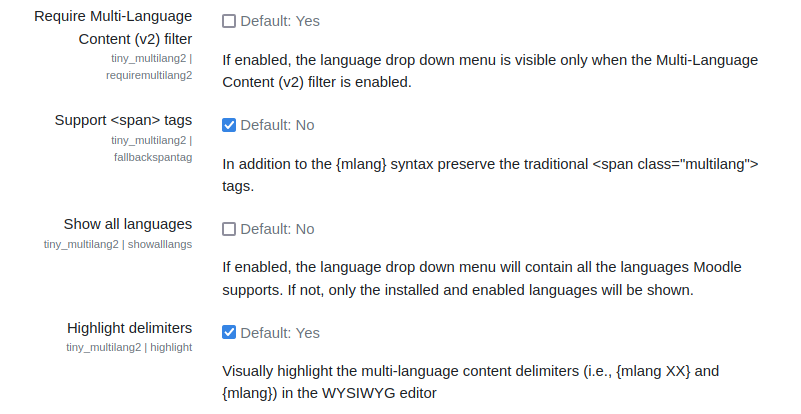
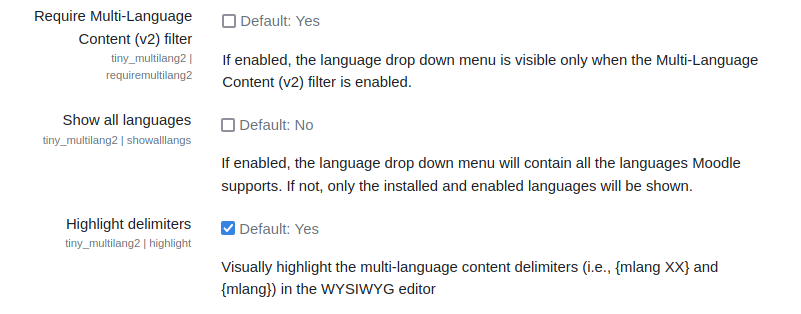
Remove the setting: fallbackspantag - It was not observed correctly (markup in the editor is still   applied even if the setting was off). - Correcting the first point would have leed to no styling which   is somewhat awkward when there are <span class="multilang">   tags contained in the text but n
Therefore the <span> tag is now the default behaviour when there
is no multilang filter 2 installed.

diff --git a/amd/build/ui.min.js b/amd/build/ui.min.js
@@ -9,6 +9,6 @@ define("tiny_multilang2/ui",["exports","./options"],(function(_exports,_options2
    * @copyright   2015 onwards Iñaki Arenaza & Mondragon Unibertsitatea
    * @license     http://www.gnu.org/copyleft/gpl.html GNU GPL v3 or later
    */
-const spanClass="multilang-begin mceNonEditable",spanFixedAttrs='<span contenteditable="false" class="'+spanClass+'" data-mce-contenteditable="false"',spanMultilangBegin=spanFixedAttrs+' lang="%lang" xml:lang="%lang">{mlang %lang}</span>',spanMultilangEnd=spanFixedAttrs.replace("begin","end")+">{mlang}</span>",isNull=a=>null==a;let _isSubmit=!1;const _options={},addVisualStyling=function(ed){let content=ed.getContent();if(-1!==content.indexOf(spanClass))return content;if(content=content.replace(new RegExp("{\\s*mlang\\s+([^}]+?)\\s*}","ig"),(function(match,p1){return spanMultilangBegin.replace(new RegExp("%lang","g"),p1)})),content=content.replace(new RegExp("{\\s*mlang\\s*}","ig"),spanMultilangEnd),(0,_options2.mlangFilterExists)(ed)&&!(0,_options2.isFallbackSpanTag)(ed))return content;const doc=(new DOMParser).parseFromString(content,"text/html");if(0===doc.children.length)return content;const nodes=doc.querySelectorAll("span.multilang");if(0===nodes.length)return content;for(const span of nodes){const newSpan=spanMultilangBegin.replace(new RegExp("%lang","g"),span.getAttribute("lang")).replace("mceNonEditable","mceNonEditable fallback")+span.innerHTML+spanMultilangEnd.replace("mceNonEditable","mceNonEditable fallback");span.insertAdjacentHTML("afterend",newSpan),span.remove()}return doc.getElementsByTagName("body")[0].innerHTML},removeVisualStyling=function(ed){["begin","end"].forEach((function(t){for(const span of ed.dom.select("span.multilang-"+t))if("begin"===t&&span.classList.contains("fallback")){let innerHTML="",end=span,toRemove=[];for(;end&&(end=end.nextSibling,!isNull(end));){if(!isNull(end.classList)&&end.classList.contains("multilang-end")){toRemove.push(end);break}3===end.nodeType?innerHTML+=end.nodeValue:1===end.nodeType&&(innerHTML+=end.outerHTML),toRemove.push(end)}if(!isNull(end)){const lang=span.innerHTML.match(new RegExp("{\\s*mlang\\s+([^}]+?)\\s*}","i")),rtlLanguages=(0,_options2.getRTLLanguages)();if(lang){const langCode=lang[1],dir=rtlLanguages.includes(langCode)?"rtl":"ltr",newHTML='<span class="multilang" lang="'+lang[1]+'" dir="'+dir+'">'+innerHTML+"</span>";for(end of(ed.dom.setOuterHTML(span,newHTML),toRemove))ed.dom.remove(end)}}}else ed.dom.setOuterHTML(span,span.innerHTML.toLowerCase())}))},getHighlightNodeFromSelect=function(ed,search){let span;return ed.dom.getParents(ed.selection.getStart(),(elm=>{if(!isNull(elm.classList)){const pair="begin"===search?"end":"begin";if(elm.classList.contains("multilang-"+pair)){span=elm;do{span="begin"===search?span.previousSibling:span.nextSibling}while(!isNull(span)&&(isNull(span.classList)||!span.classList.contains("multilang-"+search)))}else elm.classList.contains("multilang-"+search)&&(span=elm)}})),span},hideContentToolbar=function(el){for(;!isNull(el);){if(el.nodeType===Node.ELEMENT_NODE&&!isNull(el.getAttribute("class"))&&-1!=el.getAttribute("class").indexOf("tox-pop-"))return void(el.style.display="none");el=el.parentNode}};_exports.onInit=function(ed,options){Object.keys(options).forEach((function(key){_options[key]=options[key]})),ed.setContent(addVisualStyling(ed)),(0,_options2.isContentToHighlight)(ed)&&ed.dom.addStyle((0,_options2.getHighlightCss)(ed))};_exports.onBeforeGetContent=function(ed,content){if(!isNull(content.source_view)&&!0===content.source_view){var onClose=function(ed){ed.off("close",onClose),ed.setContent(addVisualStyling(ed))};ed.on("CloseWindow",(()=>{onClose(ed)})),removeVisualStyling(ed)}};_exports.onFocus=function(ed){_isSubmit&&(ed.setContent(addVisualStyling(ed),{no_events:!0}),_isSubmit=!1)};_exports.onSubmit=function(ed){removeVisualStyling(ed),_isSubmit=!0};_exports.onDelete=function(ed,event){if(event.isComposing||isNull(event.clientX)&&46!==event.keyCode&&8!==event.keyCode)return;if(!isNull(event.clientX)&&(event.target.nodeType!==Node.ELEMENT_NODE||"path"!==event.target.nodeName&&"svg"!==event.target.nodeName))return;const begin=getHighlightNodeFromSelect(ed,"begin"),end=getHighlightNodeFromSelect(ed,"end");isNull(begin)||isNull(end)||(event.preventDefault(),ed.dom.remove(begin),ed.dom.remove(end),isNull(event.clientX)||hideContentToolbar(event.target))};_exports.applyLanguage=function(ed,iso,event){if(isNull(iso))return;if("remove"===iso){return void ed.contentDocument.body.querySelectorAll(".multilang-begin, .multilang-end").forEach((element=>{ed.dom.remove(element)}))}const regexLang=/%lang/g;let text=ed.selection.getContent();if(""===text.toString().replace(/^\s+/,"").replace(/\s+$/,"")){if(!isNull(event))return void hideContentToolbar(event.target);let newtext=spanMultilangBegin.replace(regexLang,iso)+" "+spanMultilangEnd;return(0,_options2.mlangFilterExists)(ed)||(newtext=newtext.replaceAll("mceNonEditable","mceNonEditable fallback")),void ed.insertContent(newtext)}isNull(event)||hideContentToolbar(event.target);const span=getHighlightNodeFromSelect(ed,"begin");if(!isNull(span)){let replacement=spanMultilangBegin.replace(regexLang,iso);return span.classList.contains("fallback")&&(replacement=replacement.replace("mceNonEditable","mceNonEditable fallback")),void ed.dom.setOuterHTML(span,replacement)}if(-1!==text.indexOf("multilang-begin")||-1!==text.indexOf("multilang-end"))return void ed.notificationManager.open({text:_options.langInSelectionErrMsg,type:"error"});const block=function(text){let result={el:null,cnt:0};const body=(new DOMParser).parseFromString(text,"text/html").body;if(body.firstChild.nodeType!==Node.ELEMENT_NODE)return result;const blockTags=["address","article","aside","blockquote","dd","div","dl","dt","figcaption","h1","h2","h3","h4","h5","h6","li","ol","p","pre","section","tfoot","ul"];for(let i=0;i<body.children.length;i++)body.children[i].nodeType===Node.ELEMENT_NODE&&-1!=blockTags.indexOf(body.children[i].tagName.toString().toLowerCase())&&(result.cnt+=1,isNull(result.el)&&(result.el=body.children[i]));return result}(text);if(!isNull(block.el)){if(1===block.cnt){let newtext=spanMultilangBegin.replace(regexLang,iso)+block.el.innerHTML+spanMultilangEnd;return(0,_options2.mlangFilterExists)(ed)||(newtext=newtext.replaceAll("mceNonEditable","mceNonEditable fallback")),block.el.innerHTML=newtext,void ed.selection.setContent(block.el.outerHTML)}if(!(0,_options2.mlangFilterExists)(ed))return void ed.notificationManager.open({text:_options.multipleBlocksErrMsg,type:"error"})}let newtext=spanMultilangBegin.replace(regexLang,iso)+text+spanMultilangEnd;(0,_options2.mlangFilterExists)(ed)||(newtext=newtext.replaceAll("mceNonEditable","mceNonEditable fallback")),ed.selection.setContent(newtext)}}));
+const spanClass="multilang-begin mceNonEditable",spanFixedAttrs='<span contenteditable="false" class="'+spanClass+'" data-mce-contenteditable="false"',spanMultilangBegin=spanFixedAttrs+' lang="%lang" xml:lang="%lang">{mlang %lang}</span>',spanMultilangEnd=spanFixedAttrs.replace("begin","end")+">{mlang}</span>",isNull=a=>null==a;let _isSubmit=!1;const _options={},addVisualStyling=function(ed){let content=ed.getContent();if(-1!==content.indexOf(spanClass))return content;content=content.replace(new RegExp("{\\s*mlang\\s+([^}]+?)\\s*}","ig"),(function(match,p1){return spanMultilangBegin.replace(new RegExp("%lang","g"),p1)})),content=content.replace(new RegExp("{\\s*mlang\\s*}","ig"),spanMultilangEnd);const doc=(new DOMParser).parseFromString(content,"text/html");if(0===doc.children.length)return content;const nodes=doc.querySelectorAll("span.multilang");if(0===nodes.length)return content;for(const span of nodes){const newSpan=spanMultilangBegin.replace(new RegExp("%lang","g"),span.getAttribute("lang")).replace("mceNonEditable","mceNonEditable fallback")+span.innerHTML+spanMultilangEnd.replace("mceNonEditable","mceNonEditable fallback");span.insertAdjacentHTML("afterend",newSpan),span.remove()}return doc.getElementsByTagName("body")[0].innerHTML},removeVisualStyling=function(ed){["begin","end"].forEach((function(t){for(const span of ed.dom.select("span.multilang-"+t))if("begin"===t&&span.classList.contains("fallback")){let innerHTML="",end=span,toRemove=[];for(;end&&(end=end.nextSibling,!isNull(end));){if(!isNull(end.classList)&&end.classList.contains("multilang-end")){toRemove.push(end);break}3===end.nodeType?innerHTML+=end.nodeValue:1===end.nodeType&&(innerHTML+=end.outerHTML),toRemove.push(end)}if(!isNull(end)){const lang=span.innerHTML.match(new RegExp("{\\s*mlang\\s+([^}]+?)\\s*}","i")),rtlLanguages=(0,_options2.getRTLLanguages)();if(lang){const langCode=lang[1],dir=rtlLanguages.includes(langCode)?"rtl":"ltr",newHTML='<span class="multilang" lang="'+lang[1]+'" dir="'+dir+'">'+innerHTML+"</span>";for(end of(ed.dom.setOuterHTML(span,newHTML),toRemove))ed.dom.remove(end)}}}else ed.dom.setOuterHTML(span,span.innerHTML.toLowerCase())}))},getHighlightNodeFromSelect=function(ed,search){let span;return ed.dom.getParents(ed.selection.getStart(),(elm=>{if(!isNull(elm.classList)){const pair="begin"===search?"end":"begin";if(elm.classList.contains("multilang-"+pair)){span=elm;do{span="begin"===search?span.previousSibling:span.nextSibling}while(!isNull(span)&&(isNull(span.classList)||!span.classList.contains("multilang-"+search)))}else elm.classList.contains("multilang-"+search)&&(span=elm)}})),span},hideContentToolbar=function(el){for(;!isNull(el);){if(el.nodeType===Node.ELEMENT_NODE&&!isNull(el.getAttribute("class"))&&-1!=el.getAttribute("class").indexOf("tox-pop-"))return void(el.style.display="none");el=el.parentNode}};_exports.onInit=function(ed,options){Object.keys(options).forEach((function(key){_options[key]=options[key]})),ed.setContent(addVisualStyling(ed)),(0,_options2.isContentToHighlight)(ed)&&ed.dom.addStyle((0,_options2.getHighlightCss)(ed))};_exports.onBeforeGetContent=function(ed,content){if(!isNull(content.source_view)&&!0===content.source_view){var onClose=function(ed){ed.off("close",onClose),ed.setContent(addVisualStyling(ed))};ed.on("CloseWindow",(()=>{onClose(ed)})),removeVisualStyling(ed)}};_exports.onFocus=function(ed){_isSubmit&&(ed.setContent(addVisualStyling(ed),{no_events:!0}),_isSubmit=!1)};_exports.onSubmit=function(ed){removeVisualStyling(ed),_isSubmit=!0};_exports.onDelete=function(ed,event){if(event.isComposing||isNull(event.clientX)&&46!==event.keyCode&&8!==event.keyCode)return;if(!isNull(event.clientX)&&(event.target.nodeType!==Node.ELEMENT_NODE||"path"!==event.target.nodeName&&"svg"!==event.target.nodeName))return;const begin=getHighlightNodeFromSelect(ed,"begin"),end=getHighlightNodeFromSelect(ed,"end");isNull(begin)||isNull(end)||(event.preventDefault(),ed.dom.remove(begin),ed.dom.remove(end),isNull(event.clientX)||hideContentToolbar(event.target))};_exports.applyLanguage=function(ed,iso,event){if(isNull(iso))return;if("remove"===iso){return void ed.contentDocument.body.querySelectorAll(".multilang-begin, .multilang-end").forEach((element=>{ed.dom.remove(element)}))}const regexLang=/%lang/g;let text=ed.selection.getContent();if(""===text.toString().replace(/^\s+/,"").replace(/\s+$/,"")){if(!isNull(event))return void hideContentToolbar(event.target);let newtext=spanMultilangBegin.replace(regexLang,iso)+" "+spanMultilangEnd;return(0,_options2.mlangFilterExists)(ed)||(newtext=newtext.replaceAll("mceNonEditable","mceNonEditable fallback")),void ed.insertContent(newtext)}isNull(event)||hideContentToolbar(event.target);const span=getHighlightNodeFromSelect(ed,"begin");if(!isNull(span)){let replacement=spanMultilangBegin.replace(regexLang,iso);return span.classList.contains("fallback")&&(replacement=replacement.replace("mceNonEditable","mceNonEditable fallback")),void ed.dom.setOuterHTML(span,replacement)}if(-1!==text.indexOf("multilang-begin")||-1!==text.indexOf("multilang-end"))return void ed.notificationManager.open({text:_options.langInSelectionErrMsg,type:"error"});const block=function(text){let result={el:null,cnt:0};const body=(new DOMParser).parseFromString(text,"text/html").body;if(body.firstChild.nodeType!==Node.ELEMENT_NODE)return result;const blockTags=["address","article","aside","blockquote","dd","div","dl","dt","figcaption","h1","h2","h3","h4","h5","h6","li","ol","p","pre","section","tfoot","ul"];for(let i=0;i<body.children.length;i++)body.children[i].nodeType===Node.ELEMENT_NODE&&-1!=blockTags.indexOf(body.children[i].tagName.toString().toLowerCase())&&(result.cnt+=1,isNull(result.el)&&(result.el=body.children[i]));return result}(text);if(!isNull(block.el)){if(1===block.cnt){let newtext=spanMultilangBegin.replace(regexLang,iso)+block.el.innerHTML+spanMultilangEnd;return(0,_options2.mlangFilterExists)(ed)||(newtext=newtext.replaceAll("mceNonEditable","mceNonEditable fallback")),block.el.innerHTML=newtext,void ed.selection.setContent(block.el.outerHTML)}if(!(0,_options2.mlangFilterExists)(ed))return void ed.notificationManager.open({text:_options.multipleBlocksErrMsg,type:"error"})}let newtext=spanMultilangBegin.replace(regexLang,iso)+text+spanMultilangEnd;(0,_options2.mlangFilterExists)(ed)||(newtext=newtext.replaceAll("mceNonEditable","mceNonEditable fallback")),ed.selection.setContent(newtext)}}));
 
 //# sourceMappingURL=ui.min.js.map

diff --git a/amd/build/options.min.js b/amd/build/options.min.js
@@ -1,4 +1,4 @@
-define("tiny_multilang2/options",["exports","editor_tiny/options","./common"],(function(_exports,_options,_common){Object.defineProperty(_exports,"__esModule",{value:!0}),_exports.showAllLanguages=_exports.register=_exports.mlangFilterExists=_exports.isFallbackSpanTag=_exports.isContentToHighlight=_exports.isAddLanguage=_exports.getRTLLanguages=_exports.getLanguageList=_exports.getHighlightCss=void 0;
+define("tiny_multilang2/options",["exports","editor_tiny/options","./common"],(function(_exports,_options,_common){Object.defineProperty(_exports,"__esModule",{value:!0}),_exports.showAllLanguages=_exports.register=_exports.mlangFilterExists=_exports.isContentToHighlight=_exports.isAddLanguage=_exports.getRTLLanguages=_exports.getLanguageList=_exports.getHighlightCss=void 0;
 /**
    * Options helper for multilang2 plugin.
    *
@@ -8,6 +8,6 @@ define("tiny_multilang2/options",["exports","editor_tiny/options","./common"],(f
    * @copyright   2015 onwards Iñaki Arenaza & Mondragon Unibertsitatea
    * @license     http://www.gnu.org/copyleft/gpl.html GNU GPL v3 or later
    */
-const languages=(0,_options.getPluginOptionName)(_common.pluginName,"languages"),mlangfilter=(0,_options.getPluginOptionName)(_common.pluginName,"mlangfilter"),fallbackspan=(0,_options.getPluginOptionName)(_common.pluginName,"fallbackspantag"),showalllangs=(0,_options.getPluginOptionName)(_common.pluginName,"showalllangs"),highlight=(0,_options.getPluginOptionName)(_common.pluginName,"highlight"),highlightcss=(0,_options.getPluginOptionName)(_common.pluginName,"css"),addlanguage=(0,_options.getPluginOptionName)(_common.pluginName,"addlanguage"),languageoptions=(0,_options.getPluginOptionName)(_common.pluginName,"optionlanguages");_exports.register=editor=>{editor.options.register(languages,{processor:"Array",default:[]}),editor.options.register(mlangfilter,{processor:"boolean",default:!1}),editor.options.register(showalllangs,{processor:"boolean",default:!1}),editor.options.register(fallbackspan,{processor:"boolean",default:!1}),editor.options.register(highlight,{processor:"boolean",default:!1}),editor.options.register(highlightcss,{processor:"string",default:""}),editor.options.register(addlanguage,{processor:"boolean",default:!1}),editor.options.register(languageoptions,{processor:"Array",default:[]})};_exports.getLanguageList=editor=>editor.options.get(languages);_exports.mlangFilterExists=editor=>editor.options.get(mlangfilter);_exports.showAllLanguages=editor=>editor.options.get(showalllangs);_exports.isFallbackSpanTag=editor=>editor.options.get(fallbackspan);_exports.isContentToHighlight=editor=>editor.options.get(highlight);_exports.getHighlightCss=editor=>editor.options.get(highlightcss);_exports.isAddLanguage=editor=>editor.options.get(addlanguage);_exports.getRTLLanguages=()=>["ar","az","dv","he","ku","fa","ur"]}));
+const languages=(0,_options.getPluginOptionName)(_common.pluginName,"languages"),mlangfilter=(0,_options.getPluginOptionName)(_common.pluginName,"mlangfilter"),showalllangs=(0,_options.getPluginOptionName)(_common.pluginName,"showalllangs"),highlight=(0,_options.getPluginOptionName)(_common.pluginName,"highlight"),highlightcss=(0,_options.getPluginOptionName)(_common.pluginName,"css"),addlanguage=(0,_options.getPluginOptionName)(_common.pluginName,"addlanguage"),languageoptions=(0,_options.getPluginOptionName)(_common.pluginName,"optionlanguages");_exports.register=editor=>{editor.options.register(languages,{processor:"Array",default:[]}),editor.options.register(mlangfilter,{processor:"boolean",default:!1}),editor.options.register(showalllangs,{processor:"boolean",default:!1}),editor.options.register(highlight,{processor:"boolean",default:!1}),editor.options.register(highlightcss,{processor:"string",default:""}),editor.options.register(addlanguage,{processor:"boolean",default:!1}),editor.options.register(languageoptions,{processor:"Array",default:[]})};_exports.getLanguageList=editor=>editor.options.get(languages);_exports.mlangFilterExists=editor=>editor.options.get(mlangfilter);_exports.showAllLanguages=editor=>editor.options.get(showalllangs);_exports.isContentToHighlight=editor=>editor.options.get(highlight);_exports.getHighlightCss=editor=>editor.options.get(highlightcss);_exports.isAddLanguage=editor=>editor.options.get(addlanguage);_exports.getRTLLanguages=()=>["ar","az","dv","he","ku","fa","ur"]}));
 
 //# sourceMappingURL=options.min.js.map

diff --git a/amd/src/ui.js b/amd/src/ui.js
@@ -24,7 +24,7 @@
  * @license     http://www.gnu.org/copyleft/gpl.html GNU GPL v3 or later
  */
 
-import {getHighlightCss, isContentToHighlight, mlangFilterExists, isFallbackSpanTag, getRTLLanguages} from './options';
+import {getHighlightCss, isContentToHighlight, mlangFilterExists, getRTLLanguages} from './options';
 
 // This class inside a <span> identified the {mlang} tag that is encapsulated in a span.
 const spanClass = 'multilang-begin mceNonEditable';
@@ -74,11 +74,7 @@ const addVisualStyling = function(ed) {
     });
     content = content.replace(new RegExp('{\\s*mlang\\s*}', 'ig'), spanMultilangEnd);
 
-    // If we have the multilang2 filter installed and wish not to check for the traditional
-    // <span class="multilang"> tags, then we are done here.
-    if (mlangFilterExists(ed) && !isFallbackSpanTag(ed)) {
-        return content;
-    }
+    // Check for the traditional <span class="multilang"> tags, in case these were used as well in the text.
     // Any <span class="multilang"> tag must be replaced with a <span class="multilang-begin...>{mlang XX}</span>
     // and the corresponding closing </span> must be replaced by <span class="multilang-end ...>{mlang}</span>.
     // To handle this, we must convert the string into a DOMDocument so that any span.multilang tag can be searched

diff --git a/amd/src/options.js b/amd/src/options.js
@@ -28,7 +28,6 @@ import {pluginName} from './common';
 
 const languages = getPluginOptionName(pluginName, 'languages');
 const mlangfilter = getPluginOptionName(pluginName, 'mlangfilter');
-const fallbackspan = getPluginOptionName(pluginName, 'fallbackspantag');
 const showalllangs = getPluginOptionName(pluginName, 'showalllangs');
 const highlight = getPluginOptionName(pluginName, 'highlight');
 const highlightcss = getPluginOptionName(pluginName, 'css');
@@ -52,11 +51,6 @@ export const register = (editor) => {
     });
 
     editor.options.register(showalllangs, {
-        processor: 'boolean',
-        "default": false,
-    });
-
-    editor.options.register(fallbackspan, {
         processor: 'boolean',
         "default": false,
     });
@@ -104,14 +98,6 @@ export const mlangFilterExists = (editor) => editor.options.get(mlangfilter);
  * @returns {boolean}
  */
 export const showAllLanguages = (editor) => editor.options.get(showalllangs);
-
-/**
- * Get the defined option whether the classic <span class="multilang" lang="XX"> are supported as well.
- *
- * @param {tinymce.Editor} editor
- * @returns {boolean}
- */
-export const isFallbackSpanTag = (editor) => editor.options.get(fallbackspan);
 
 /**
  * Get the defined option whether to highlight the language dependent content blocks.

diff --git a/settings.php b/settings.php
@@ -33,8 +33,6 @@ $settings = new admin_settingpage('tiny_multilang2_settings', new lang_string('s
 if ($ADMIN->fulltree) {
     $settings->add(new admin_setting_configcheckbox('tiny_multilang2/requiremultilang2',
         get_string('requiremultilang2', 'tiny_multilang2'), get_string('requiremultilang2_desc', 'tiny_multilang2'), 1));
-    $settings->add(new admin_setting_configcheckbox('tiny_multilang2/fallbackspantag',
-        get_string('fallbackspantag', 'tiny_multilang2'), get_string('fallbackspantag_desc', 'tiny_multilang2'), 0));
     $settings->add(new admin_setting_configcheckbox('tiny_multilang2/showalllangs',
         get_string('showalllangs', 'tiny_multilang2'), get_string('showalllangs_desc', 'tiny_multilang2'), 0));
     $settings->add(new admin_setting_configcheckbox('tiny_multilang2/highlight',

diff --git a/lang/en/tiny_multilang2.php b/lang/en/tiny_multilang2.php
@@ -22,8 +22,6 @@
  * @license   http://www.gnu.org/copyleft/gpl.html GNU GPL v3 or later
  */
 
-$string['fallbackspantag'] = 'Support &lt;span&gt; tags';
-$string['fallbackspantag_desc'] = 'In addition to the {mlang} syntax preserve the traditional &lt;span class="multilang"&gt; tags.';
 $string['helplinktext'] = 'Multi-Language Content (v2)';
 $string['highlight'] = 'Highlight delimiters';
 $string['highlight_desc'] = 'Visually highlight the multi-language content delimiters (i.e., {mlang XX} and {mlang}) in the WYSIWYG editor';

diff --git a/lang/fr/tiny_multilang2.php b/lang/fr/tiny_multilang2.php
@@ -22,8 +22,6 @@
  * @license   http://www.gnu.org/copyleft/gpl.html GNU GPL v3 or later
  */
 
-$string['fallbackspantag'] = 'Soutien les tags <span>';
-$string['fallbackspantag_desc'] = 'En plus de la syntaxe {mlang}, les tags <span class="multilang"> conventionnels sont également pris en charge.';
 $string['highlightcss'] = 'CSS pour séparateurs';
 $string['highlightcss_desc'] = "CSS utilisé pour mettre en évidence les délimiteurs de contenus multilingues.
 

diff --git a/lang/es/tiny_multilang2.php b/lang/es/tiny_multilang2.php
@@ -22,8 +22,6 @@
  * @license   http://www.gnu.org/copyleft/gpl.html GNU GPL v3 or later
  */
 
-$string['fallbackspantag'] = 'Accepta los tags <span>';
-$string['fallbackspantag_desc'] = 'Aparte de syntax {mlang} los classico tags <span class="multilang"> ha soportado tambien.';
 $string['highlightcss'] = 'CSS para los delimitadores';
 $string['highlightcss_desc'] = "CSS usado para destacar los delimitadores del contenido multi-idioma.
 

diff --git a/lang/de/tiny_multilang2.php b/lang/de/tiny_multilang2.php
@@ -22,8 +22,6 @@
  * @license   http://www.gnu.org/copyleft/gpl.html GNU GPL v3 or later
  */
 
-$string['fallbackspantag'] = 'Beachte die <span> tags';
-$string['fallbackspantag_desc'] = 'Neben der {mlang} Syntax werden die herkömmlichen <span class="multilang"> tags unterstützt.';
 $string['highlightcss'] = 'CSS für Sprachtag';
 $string['highlightcss_desc'] = "CSS für die Marker um dem sprachabhängigen Inhalt anzuzeigen.
 

diff --git a/README.md b/README.md
@@ -49,7 +49,6 @@ is enabled, the standard `<span class="multilang">` tags are used.
 
 If the language selection does not appear in the editor:
  - Check that the [multilang2 filter][1] is installed and enabled.
- - If you don't use the [multilang2 filter][1], check that the setting `fallbackspantag` is active.
  - Check that your site has at least two languages installed.
  - If you don't have more than one language installed, enable the `addlanguage` option and
    set a few language iso codes in the `languageoptions` setting.
@@ -88,8 +87,7 @@ transformed into the standard Moodle annotation is used. These are span elements
 and the `dir` attribute annotates whether this is a left to right language or vice versa.
 
 When loading a text, both annotations are read and translated into marked language tags in the
-WYSIWYG mode, if the setting `fallbackspantag` is enabled. Otherwise, the Moodle default
-span tags are ignored. If mixed annotations are used in the text, these are preserved upon
+WYSIWYG mode. If mixed annotations are used in the text, these are preserved upon
 saving.
 
 ### Possible languages options
